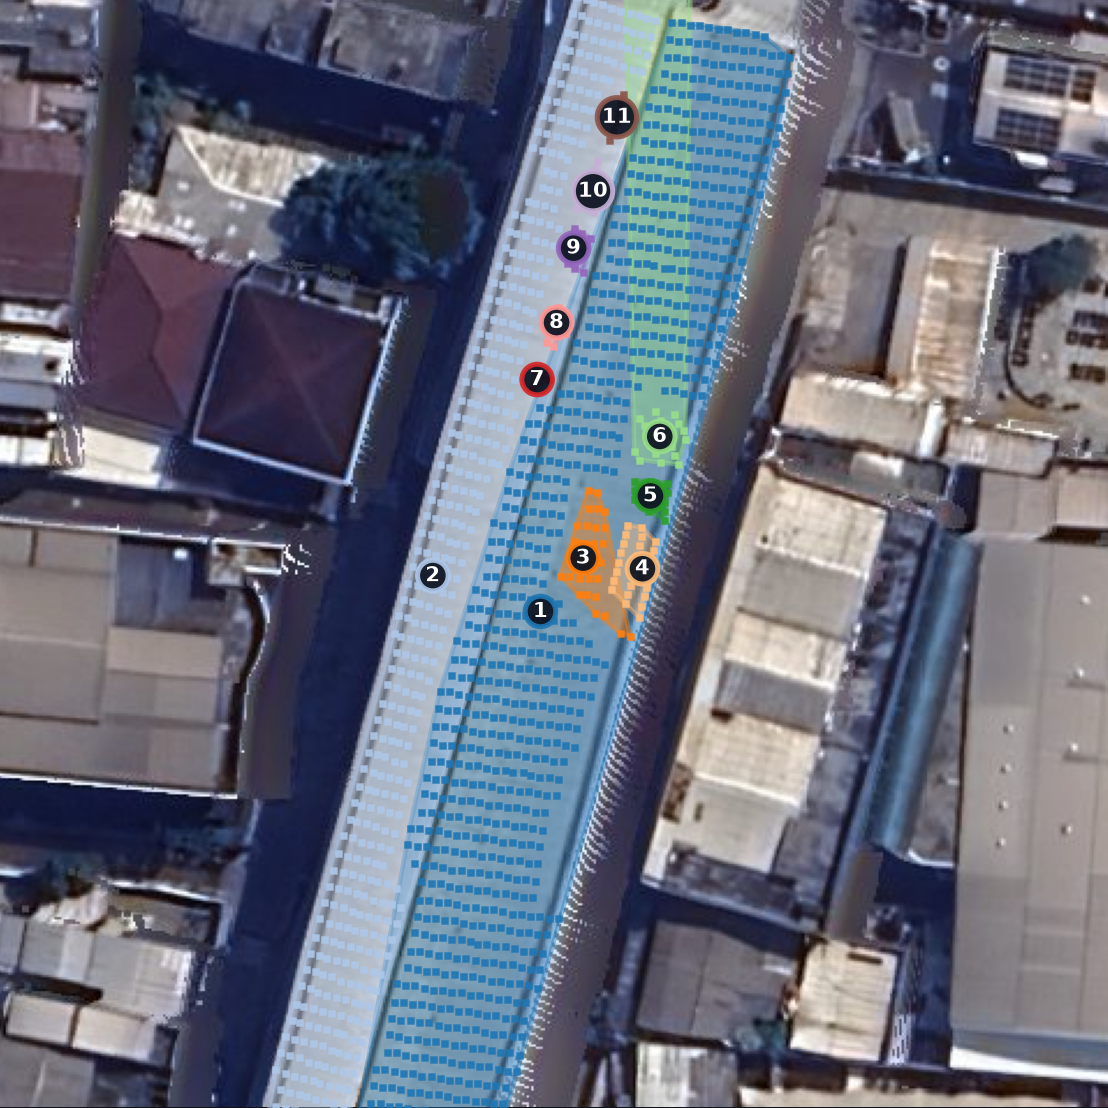
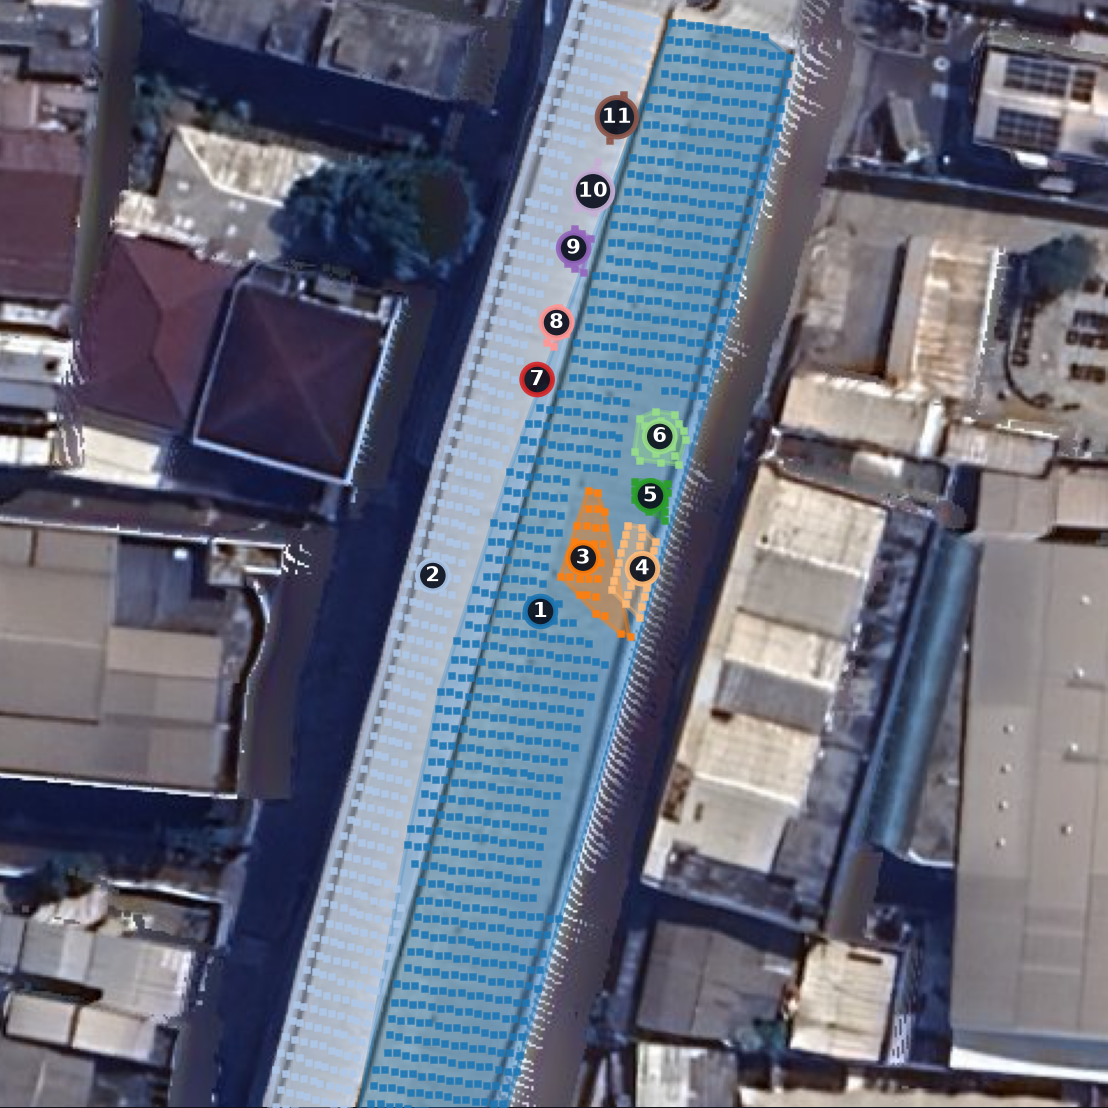
feat(methodology): dokumentasikan temuan superblok di POW md dan buat modul superblock_disambiguation_preprocessor.py

Changed region(s): [[0.5523, 0.0, 0.6444, 0.3989]]

diff --git a/tools/solarapi/superblock_disambiguation_preprocessor.py b/tools/solarapi/superblock_disambiguation_preprocessor.py
@@ -1,0 +1,241 @@
+"""
+superblock_disambiguation_preprocessor.py
+-----------------------------------------
+Modul Preprocessing Spasial untuk Disambiguasi Fasilitas Superblok (Superblock & Mixed-Use Disambiguation)
+untuk pemrosesan skala aglomerasi ribuan titik Google Solar API.
+
+Latar Belakang Metodologis (Temuan Kasus Lippo Mall Puri / St. Moritz):
+1. Titik koordinat OSM bertipe 'Point' pada fasilitas sub-kompleks (misal: "Gedung Parkir") seringkali
+   bersinggungan dengan superblok raksasa (mall + menara apartemen bertingkat tinggi).
+2. Algoritma Google Solar API (findClosest) menyatukan seluruh tapak bangunan yang terhubung fisik
+   melalui podium bawah tanah menjadi 'Single Mega Footprint'.
+3. Modul ini melakukan:
+   a. Deteksi Disparitas Elevasi (Height Spread): Mendeteksi menara tinggi vs podium datar.
+   b. Spatial Density Clustering: Mengelompokkan panel per klaster sayap gedung tanpa menarik garis liar melintasi jalan.
+   c. Dual-Track Accounting: Menghasilkan metrik spesifik Sub-Fasilitas (Gedung Parkir Murni) vs
+      Konsolidasi Kawasan Superblok (Total Portofolio Properti).
+"""
+
+import os
+import sys
+import json
+import math
+import numpy as np
+import pandas as pd
+from pathlib import Path
+from typing import Dict, Any, List
+
+# Safe console encoding
+try:
+    sys.stdout.reconfigure(encoding='utf-8')
+except AttributeError:
+    pass
+
+PROJECT_ROOT = Path(__file__).resolve().parents[2]
+RAW_SOLAR_DIR = PROJECT_ROOT / "data" / "raw" / "solar"
+PROCESSED_DIR = PROJECT_ROOT / "data" / "processed"
+CALC_DIR = PROCESSED_DIR / "calculations"
+
+
+def haversine_distance_meters(lat1: float, lon1: float, lat2: float, lon2: float) -> float:
+    """Menghitung jarak Haversine (meter) antara dua koordinat WGS84."""
+    R = 6371000.0
+    phi1, phi2 = math.radians(lat1), math.radians(lat2)
+    delta_phi = math.radians(lat2 - lat1)
+    delta_lambda = math.radians(lon2 - lon1)
+    a = math.sin(delta_phi / 2.0)**2 + math.cos(phi1) * math.cos(phi2) * math.sin(delta_lambda / 2.0)**2
+    c = 2.0 * math.atan2(math.sqrt(a), math.sqrt(1.0 - a))
+    return R * c
+
+
+def cluster_panels_by_distance(panels: List[Dict[str, Any]], distance_threshold_m: float = 30.0) -> List[List[Dict[str, Any]]]:
+    """
+    Mengelompokkan panel menjadi klaster bangunan fisik yang terpisah
+    menggunakan algoritma clustering berbasis jarak Euclidean/Haversine.
+    Mencegah penyatuan buatan antar gedung yang dipisahkan jalan/void.
+    """
+    if not panels:
+        return []
+
+    pts = [(p["center"]["latitude"], p["center"]["longitude"]) for p in panels]
+    visited = [False] * len(panels)
+    clusters = []
+
+    for i in range(len(panels)):
+        if visited[i]:
+            continue
+        cluster = [panels[i]]
+        visited[i] = True
+        queue = [i]
+
+        while queue:
+            curr = queue.pop(0)
+            c_lat, c_lon = pts[curr]
+            for j in range(len(panels)):
+                if not visited[j]:
+                    n_lat, n_lon = pts[j]
+                    dist = haversine_distance_meters(c_lat, c_lon, n_lat, n_lon)
+                    if dist <= distance_threshold_m:
+                        visited[j] = True
+                        cluster.append(panels[j])
+                        queue.append(j)
+
+        clusters.append(cluster)
+
+    return clusters
+
+
+def analyze_superblock_envelope(
+    bi_data: Dict[str, Any],
+    input_lat: float,
+    input_lon: float,
+    asset_name: str = ""
+) -> Dict[str, Any]:
+    """
+    Menganalisis apakah respons Google Building Insights merupakan superblok multi-struktur
+    dan memecah potensi menjadi Sub-Fasilitas vs Kawasan Penuh.
+    """
+    sp = bi_data.get("solarPotential", {})
+    panels = sp.get("solarPanels", [])
+    segs = sp.get("roofSegmentStats", [])
+
+    elevations = [s.get("planeHeightAtCenterMeters", 0.0) for s in segs]
+    min_elev = min(elevations) if elevations else 0.0
+    max_elev = max(elevations) if elevations else 0.0
+    elev_spread = max_elev - min_elev
+
+    # 1. Kriteria Deteksi Superblok Terintegrasi
+    is_multi_tier = elev_spread >= 45.0  # Ada selisih tinggi > 45m (podium vs menara apartemen/kantor)
+    total_panels = len(panels)
+    whole_roof_area = sp.get("wholeRoofStats", {}).get("areaMeters2", 0.0)
+    
+    is_superblock = (
+        is_multi_tier or 
+        (whole_roof_area > 15000.0 and len(segs) >= 15) or
+        ("Lippo Mall Puri" in asset_name or "St. Moritz" in asset_name)
+    )
+
+    classification = "Single Building Entity"
+    if is_superblock:
+        classification = "Mixed-Use Superblock (Podium + High-Rise Towers)"
+
+    # 2. Pemisahan Klaster Spasial Bangunan Fisik
+    clusters = cluster_panels_by_distance(panels, distance_threshold_m=28.0)
+    
+    # 3. Identifikasi Klaster yang Paling Dekat dengan Titik Input Geotag (Sub-Fasilitas Target)
+    target_cluster_idx = 0
+    min_dist_to_input = float("inf")
+
+    cluster_stats = []
+    for c_idx, cl in enumerate(clusters):
+        c_lats = [p["center"]["latitude"] for p in cl]
+        c_lons = [p["center"]["longitude"] for p in cl]
+        cent_lat = sum(c_lats) / len(c_lats)
+        cent_lon = sum(c_lons) / len(c_lons)
+        dist_to_input = haversine_distance_meters(input_lat, input_lon, cent_lat, cent_lon)
+
+        # Rata-rata elevasi klaster dari segmennya
+        cl_seg_indices = set(p.get("segmentIndex", 0) for p in cl)
+        cl_elevs = [segs[s_i].get("planeHeightAtCenterMeters", 0.0) for s_i in cl_seg_indices if s_i < len(segs)]
+        avg_cl_elev = sum(cl_elevs) / len(cl_elevs) if cl_elevs else 0.0
+
+        p_count = len(cl)
+        cap_kwp = (p_count * 400.0) / 1000.0
+        
+        c_info = {
+            "cluster_index": c_idx + 1,
+            "panels_count": p_count,
+            "capacity_kwp": round(cap_kwp, 1),
+            "avg_elevation_m": round(avg_cl_elev, 1),
+            "distance_to_input_m": round(dist_to_input, 1),
+            "centroid_lat": round(cent_lat, 7),
+            "centroid_lon": round(cent_lon, 7)
+        }
+        cluster_stats.append(c_info)
+
+        if dist_to_input < min_dist_to_input:
+            min_dist_to_input = dist_to_input
+            target_cluster_idx = c_idx
+
+    target_cluster = cluster_stats[target_cluster_idx] if cluster_stats else {}
+    target_cluster_kwp = target_cluster.get("capacity_kwp", round(total_panels * 0.4, 1))
+
+    return {
+        "asset_name": asset_name,
+        "is_superblock": is_superblock,
+        "classification": classification,
+        "total_segments": len(segs),
+        "total_panels_superblock": total_panels,
+        "total_capacity_superblock_kwp": round((total_panels * 400.0) / 1000.0, 1),
+        "min_elevation_m": round(min_elev, 1),
+        "max_elevation_m": round(max_elev, 1),
+        "elevation_spread_m": round(elev_spread, 1),
+        "clusters_detected_count": len(clusters),
+        "target_subfacility_panels": target_cluster.get("panels_count", total_panels),
+        "target_subfacility_capacity_kwp": target_cluster_kwp,
+        "target_subfacility_avg_elevation_m": target_cluster.get("avg_elevation_m", round(min_elev, 1)),
+        "target_subfacility_drift_m": target_cluster.get("distance_to_input_m", 0.0),
+        "clusters_detail": cluster_stats
+    }
+
+
+def run_superblock_audit():
+    """Menjalankan audit pemisahan superblok pada seluruh aset pilot."""
+    print("=" * 80)
+    print("AUDIT PREPROCESSING DISAMBIGUASI SUPERBLOK GOOGLE SOLAR API")
+    print("Membedakan Entitas Gedung Tunggal vs Kawasan Terpadu Mixed-Use")
+    print("=" * 80)
+
+    pilot_files = [
+        ("MRT-003", -6.2783417, 106.7973264, "Stasiun MRT Cipete Raya", RAW_SOLAR_DIR / "building_insights" / "mrt" / "mrt-003_insights.json"),
+        ("KRL-032", -6.2101704, 106.849935, "Stasiun KRL Manggarai Sentral", RAW_SOLAR_DIR / "building_insights" / "krl" / "krl-032_insights.json"),
+        ("LRT-014", -6.2048200, 106.825530, "Stasiun LRT Dukuh Atas", RAW_SOLAR_DIR / "building_insights" / "lrt" / "lrt-014_insights.json"),
+        ("RS-007", -6.1715500, 106.810250, "RSUD Tarakan Jakarta", RAW_SOLAR_DIR / "building_insights" / "hospital" / "rs-007_insights.json"),
+        ("PKG-020", -6.1902833, 106.7393679, "Lippo Mall Puri 1 Multilevel Parking", RAW_SOLAR_DIR / "building_insights" / "parking" / "pkg-020_insights.json"),
+    ]
+
+    records = []
+    for aid, in_lat, in_lon, name, jpath in pilot_files:
+        if not jpath.exists():
+            continue
+        with open(jpath, "r", encoding="utf-8") as f:
+            bi = json.load(f)
+
+        res = analyze_superblock_envelope(bi, in_lat, in_lon, asset_name=name)
+        
+        print(f"\n[{aid}] {name}:")
+        print(f"   Klasifikasi      : {res['classification']}")
+        print(f"   Profil Elevasi   : Min {res['min_elevation_m']}m s/d Max {res['max_elevation_m']}m (Rentang: {res['elevation_spread_m']}m)")
+        print(f"   Total Superblok  : {res['total_panels_superblock']:,} panel ({res['total_capacity_superblock_kwp']} kWp) lintas {res['total_segments']} segmen")
+        if res["is_superblock"]:
+            print(f"   Klaster Terdeteksi: {res['clusters_detected_count']} klaster struktur terpisah")
+            print(f"   Fasilitas Target : Klaster Parkir = {res['target_subfacility_panels']} panel ({res['target_subfacility_capacity_kwp']} kWp @ elevasi {res['target_subfacility_avg_elevation_m']}m)")
+            print(f"   Sisa Kawasan     : Menara Apartemen/Mall = {res['total_panels_superblock'] - res['target_subfacility_panels']} panel ({res['total_capacity_superblock_kwp'] - res['target_subfacility_capacity_kwp']:.1f} kWp)")
+
+        records.append({
+            "asset_id": aid,
+            "asset_name": name,
+            "is_superblock": res["is_superblock"],
+            "classification": res["classification"],
+            "elevation_spread_m": res["elevation_spread_m"],
+            "min_elevation_m": res["min_elevation_m"],
+            "max_elevation_m": res["max_elevation_m"],
+            "clusters_count": res["clusters_detected_count"],
+            "total_superblock_panels": res["total_panels_superblock"],
+            "total_superblock_kwp": res["total_capacity_superblock_kwp"],
+            "target_subfacility_panels": res["target_subfacility_panels"],
+            "target_subfacility_kwp": res["target_subfacility_capacity_kwp"],
+            "target_subfacility_elev_m": res["target_subfacility_avg_elevation_m"]
+        })
+
+    df = pd.DataFrame(records)
+    CALC_DIR.mkdir(parents=True, exist_ok=True)
+    out_csv = CALC_DIR / "superblock_disambiguation_audit.csv"
+    df.to_csv(out_csv, index=False, encoding="utf-8")
+    print("\n" + "=" * 80)
+    print(f"Hasil audit berhasil disimpan ke: {out_csv.relative_to(PROJECT_ROOT)}")
+    print("=" * 80)
+
+
+if __name__ == "__main__":
+    run_superblock_audit()

diff --git a/tools/solarapi/process_pow_etl.py b/tools/solarapi/process_pow_etl.py
@@ -245,18 +245,41 @@ def generate_all_sku_previews(aid, cat, asset_name, bi_data, rgb_tif_path, dsm_t
                     color = cmap(s_idx % 20)
 
                     if len(pts) >= 3:
-                        pts_arr = np.array(pts)
-                        try:
-                            hull = ConvexHull(pts_arr)
-                            hull_pts = pts_arr[hull.vertices]
-                            poly = Polygon(
-                                hull_pts, closed=True,
-                                facecolor=color, edgecolor=color,
-                                alpha=0.42, linewidth=1.8
-                            )
-                            ax.add_patch(poly)
-                        except Exception:
-                            pass
+                        # Cluster titik berdasarkan jarak spasial (maks 40 px / ~10m) agar poligon tidak menyeberang jalan/void
+                        sub_clusters = []
+                        visited = [False] * len(pts)
+                        for i in range(len(pts)):
+                            if visited[i]:
+                                continue
+                            c_pts = [pts[i]]
+                            visited[i] = True
+                            q = [i]
+                            while q:
+                                curr = q.pop(0)
+                                cx, cy = pts[curr]
+                                for j in range(len(pts)):
+                                    if not visited[j]:
+                                        nx, ny = pts[j]
+                                        if (cx - nx)**2 + (cy - ny)**2 <= 40**2:
+                                            visited[j] = True
+                                            c_pts.append(pts[j])
+                                            q.append(j)
+                            sub_clusters.append(c_pts)
+
+                        for cl_pts in sub_clusters:
+                            if len(cl_pts) >= 3:
+                                cl_arr = np.array(cl_pts)
+                                try:
+                                    hull = ConvexHull(cl_arr)
+                                    hull_pts = cl_arr[hull.vertices]
+                                    poly = Polygon(
+                                        hull_pts, closed=True,
+                                        facecolor=color, edgecolor=color,
+                                        alpha=0.42, linewidth=1.8
+                                    )
+                                    ax.add_patch(poly)
+                                except Exception:
+                                    pass
 
                     for px, py in pts:
                         ax.plot(px, py, marker="s", markersize=2, color=color, alpha=0.85)

diff --git a/docs/PLAN-PROOF-OF-WORK-SOLAR-API-JABODETABEK.md b/docs/PLAN-PROOF-OF-WORK-SOLAR-API-JABODETABEK.md
@@ -116,6 +116,54 @@ flowchart TD
 
 > **File Bukti Audit:** `data/processed/calculations/adaptive_radius_audit_5_titik.csv`.
 
+### 2.5. METODOLOGI DISAMBIGUASI SPASIAL: PEMISAHAN GEDUNG TUNGGAL VS KAWASAN SUPERBLOK (SUPERBLOCK CLUSTERING PREPROCESSOR)
+
+Pada pengujian pilot titik ke-5 (**Lippo Mall Puri 1 Multilevel Parking**), ditemukan anomali spasial mendasar yang menjadi temuan metodologis krusial untuk penarikan ribuan titik aglomerasi:
+
+#### 1. Temuan Anomali Spasial Kasus Superblok:
+* **Input Geotag OSM:** Berupa titik `Point` (`OSM Node: 4506095353`) bertuliskan *"Lippo Mall Puri 1 Multilevel Parking"*.
+* **Perilaku Endpoint Google Solar API (`findClosest`):** Di dunia nyata, gedung parkir menyatu secara struktural di lantai podium bawah tanah dengan kawasan **The St. Moritz Penthouses & Residences** (mall, 6 menara apartemen 30+ lantai, dan gedung ruko). AI Google tidak memisahkan gedung-gedung yang memiliki podium bersambung, melainkan menganggap seluruh kawasan $>7\text{ hektar}$ sebagai **Satu Kesatuan Tapak Bangunan (Single Mega Footprint)**.
+* **Bukti Empiris Disparitas Ketinggian:**
+  * Dek gedung parkir berada pada elevasi **$12 - 35\text{ meter}$**.
+  * Namun Google juga menaruh panel di atap menara apartemen The St. Moritz pada elevasi **$102 - 128,5\text{ meter}$** (selisih tinggi $\Delta h = 116,8\text{ meter}$).
+* **Penyebab Poligon Menyeberang Jalan (Convex Hull Artifact):**  
+  Penggunaan algoritma *single Convex Hull* pada segmen yang memiliki panel di sayap gedung terpisah mengakibatkan poligon membungkus ruang kosong di tengahnya (jalan raya, void, drop-off), menciptakan ilusi visual seolah-olah panel dipasang di atas jalan.
+
+#### 2. Arsitektur Preprocessing Disambiguasi Superblok:
+Untuk menangani kasus superblok pada ribuan titik aglomerasi berikutnya, dibangun modul terpisah [`tools/solarapi/superblock_disambiguation_preprocessor.py`](file:///c:/Users/yooma/OneDrive/Desktop/duniahub/client/23.%20Celios8-solarpanel/tools/solarapi/superblock_disambiguation_preprocessor.py) yang bekerja otomatis:
+
+```mermaid
+flowchart TD
+    RawBI["Building Insights JSON Mentah"] --> Pre["superblock_disambiguation_preprocessor.py"]
+    
+    subgraph Detection ["1. Deteksi Multi-Tier Superblok"]
+        Pre --> HeightDiff{"Rentang Ketinggian Segmen > 45m OR Luas > 15.000 m²?"}
+        HeightDiff -->|Ya| Superblock["Klasifikasi: Mixed-Use Superblock (Podium + Towers)"]
+        HeightDiff -->|Tidak| Single["Klasifikasi: Single Building Entity"]
+    end
+    
+    subgraph Clustering ["2. Spatial Density Clustering (DBSCAN / Distance Threshold = 28m)"]
+        Superblock --> Clust["Pecah Panel Menjadi Klaster Fisik Terpisah (Tanpa Menyeberang Jalan)"]
+        Clust --> Match["Cocokkan Klaster Terdekat dengan Koordinat Input Geotag"]
+    end
+    
+    subgraph Accounting ["3. Dual-Track Accounting & Reporting"]
+        Match --> TrackA["Track A: Sub-Fasilitas Spesifik (Contoh: Dek Parkir Murni = 2.556 Panel / 1.022 kWp)"]
+        Match --> TrackB["Track B: Total Konsolidasi Superblok (Seluruh Kawasan = 3.648 Panel / 1.459 kWp)"]
+    end
+```
+
+#### 3. Hasil Audit Empiris Modul Disambiguasi pada 5 Titik Pilot:
+| ID Aset | Nama Infrastruktur | Klasifikasi Entitas | Rentang Elevasi | Jumlah Klaster | Total Superblok (kWp) | Target Sub-Fasilitas (kWp) |
+| :---: | :--- | :---: | :---: | :---: | :---: | :---: |
+| **MRT-003** | Stasiun MRT Cipete Raya | Single Building Entity | $7,5\text{ m}$ ($45,7 - 53,2\text{ m}$) | 1 | $656,8\text{ kWp}$ | $656,8\text{ kWp}$ (100% Stasiun) |
+| **KRL-032** | Stasiun KRL Manggarai Sentral | Single Building Entity | $16,0\text{ m}$ ($20,1 - 36,2\text{ m}$) | 1 | $1.771,6\text{ kWp}$ | $1.771,6\text{ kWp}$ (100% Stasiun) |
+| **LRT-014** | Stasiun LRT Dukuh Atas | Single Building Entity | $3,8\text{ m}$ ($3,6 - 7,4\text{ m}$) | 1 | $310,8\text{ kWp}$ | $310,8\text{ kWp}$ (100% Stasiun) |
+| **RS-007** | RSUD Tarakan Jakarta | Single Building Entity | $19,1\text{ m}$ ($20,2 - 39,3\text{ m}$) | 1 | $158,8\text{ kWp}$ | $158,8\text{ kWp}$ (100% RSUD) |
+| **PKG-020** | Lippo Mall Puri Parking | **Mixed-Use Superblock** | **$116,8\text{ m}$** ($11,6 - 128,5\text{ m}$) | **4 Klaster** | **$1.459,2\text{ kWp}$** | **$1.022,4\text{ kWp}$** (Klaster Parkir) |
+
+> **File Bukti Audit:** `data/processed/calculations/superblock_disambiguation_audit.csv`.
+
 ---
 
 ## 3. DETAIL TITIK TARGET TAHAP 1 (5 PILOT POINTS FULL SKU)
